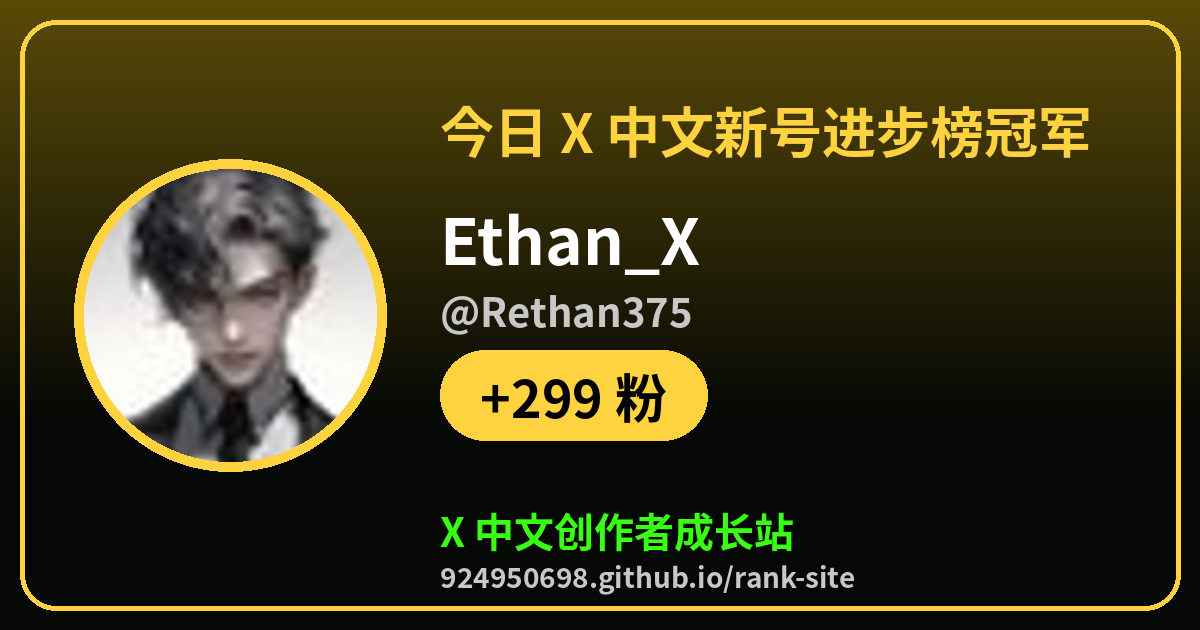
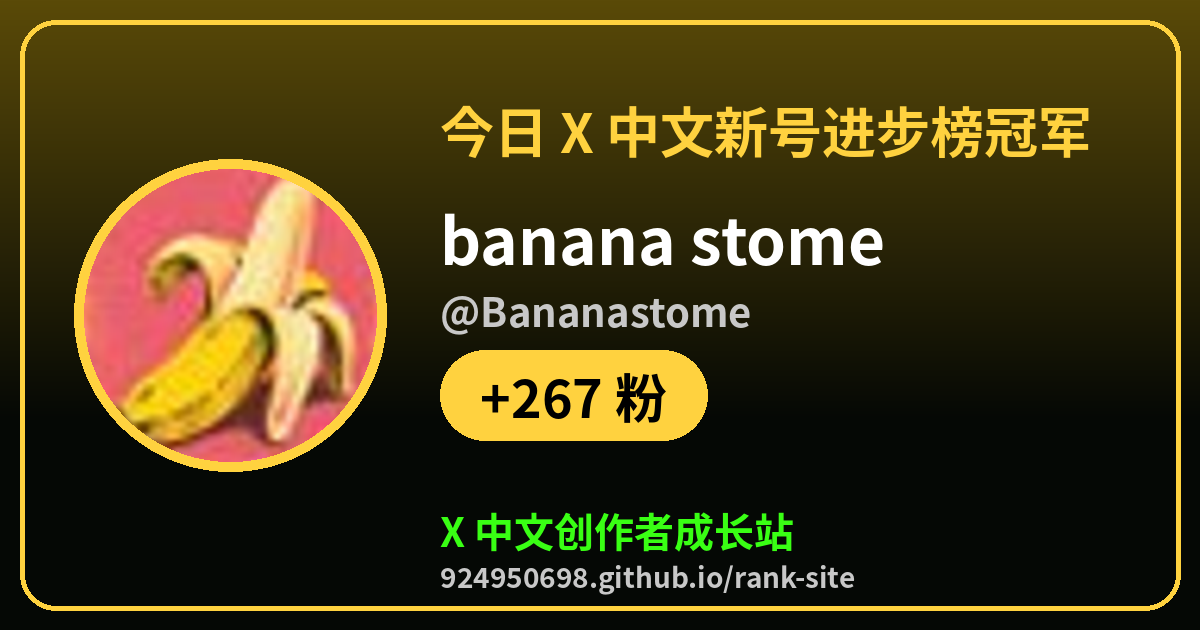
champ: 2026-10-17 14:24 CST

Changed region(s): [[0.0617, 0.2714, 0.3392, 0.754], [0.37, 0.3317, 0.74, 0.5429], [0.4317, 0.6032, 0.5242, 0.6635]]

diff --git a/champ/rising.html b/champ/rising.html
@@ -1,7 +1,7 @@
 <!doctype html><html lang="zh-CN"><head><meta charset="utf-8"><meta name="viewport" content="width=device-width,initial-scale=1">
-<title>今日 X 中文新号进步榜冠军：Ethan_X（@Rethan375）</title><meta name="description" content="+299 粉，来看看今天谁在爆，你排第几">
-<meta property="og:type" content="website"><meta property="og:url" content="https://924950698.github.io/rank-site/champ/rising.html"><meta property="og:title" content="今日 X 中文新号进步榜冠军：Ethan_X（@Rethan375）"><meta property="og:description" content="+299 粉，来看看今天谁在爆，你排第几">
-<meta property="og:image" content="https://924950698.github.io/rank-site/champ/rising.png?v=20261017T0502"><meta name="twitter:card" content="summary_large_image"><meta name="twitter:site" content="@tigerr3aue">
-<meta name="twitter:title" content="今日 X 中文新号进步榜冠军：Ethan_X（@Rethan375）"><meta name="twitter:description" content="+299 粉，来看看今天谁在爆，你排第几"><meta name="twitter:image" content="https://924950698.github.io/rank-site/champ/rising.png?v=20261017T0502">
-<meta http-equiv="refresh" content="0;url=https://924950698.github.io/rank-site/?champ=Rethan375&amp;board=rising#rank"><script>location.replace("https://924950698.github.io/rank-site/?champ=Rethan375&board=rising#rank")</script></head>
-<body style="background:#000;color:#fff;font-family:sans-serif;text-align:center;padding:40px"><a href="https://924950698.github.io/rank-site/?champ=Rethan375&amp;board=rising#rank" style="color:#39ff14">去 X 中文创作者成长站看冠军卡片</a></body></html>
+<title>今日 X 中文新号进步榜冠军：banana stome（@Bananastome）</title><meta name="description" content="+267 粉，来看看今天谁在爆，你排第几">
+<meta property="og:type" content="website"><meta property="og:url" content="https://924950698.github.io/rank-site/champ/rising.html"><meta property="og:title" content="今日 X 中文新号进步榜冠军：banana stome（@Bananastome）"><meta property="og:description" content="+267 粉，来看看今天谁在爆，你排第几">
+<meta property="og:image" content="https://924950698.github.io/rank-site/champ/rising.png?v=20261017T0610"><meta name="twitter:card" content="summary_large_image"><meta name="twitter:site" content="@tigerr3aue">
+<meta name="twitter:title" content="今日 X 中文新号进步榜冠军：banana stome（@Bananastome）"><meta name="twitter:description" content="+267 粉，来看看今天谁在爆，你排第几"><meta name="twitter:image" content="https://924950698.github.io/rank-site/champ/rising.png?v=20261017T0610">
+<meta http-equiv="refresh" content="0;url=https://924950698.github.io/rank-site/?champ=Bananastome&amp;board=rising#rank"><script>location.replace("https://924950698.github.io/rank-site/?champ=Bananastome&board=rising#rank")</script></head>
+<body style="background:#000;color:#fff;font-family:sans-serif;text-align:center;padding:40px"><a href="https://924950698.github.io/rank-site/?champ=Bananastome&amp;board=rising#rank" style="color:#39ff14">去 X 中文创作者成长站看冠军卡片</a></body></html>

diff --git a/champ/comments.html b/champ/comments.html
@@ -1,7 +1,7 @@
 <!doctype html><html lang="zh-CN"><head><meta charset="utf-8"><meta name="viewport" content="width=device-width,initial-scale=1">
-<title>今日 X 中文评论榜冠军：Deribit華語（@DeribitCN）</title><meta name="description" content="168 评论，来看看今天谁在爆，你排第几">
-<meta property="og:type" content="website"><meta property="og:url" content="https://924950698.github.io/rank-site/champ/comments.html"><meta property="og:title" content="今日 X 中文评论榜冠军：Deribit華語（@DeribitCN）"><meta property="og:description" content="168 评论，来看看今天谁在爆，你排第几">
-<meta property="og:image" content="https://924950698.github.io/rank-site/champ/comments.png?v=20261017T0502"><meta name="twitter:card" content="summary_large_image"><meta name="twitter:site" content="@tigerr3aue">
-<meta name="twitter:title" content="今日 X 中文评论榜冠军：Deribit華語（@DeribitCN）"><meta name="twitter:description" content="168 评论，来看看今天谁在爆，你排第几"><meta name="twitter:image" content="https://924950698.github.io/rank-site/champ/comments.png?v=20261017T0502">
-<meta http-equiv="refresh" content="0;url=https://924950698.github.io/rank-site/?champ=DeribitCN&amp;board=comments#rank"><script>location.replace("https://924950698.github.io/rank-site/?champ=DeribitCN&board=comments#rank")</script></head>
-<body style="background:#000;color:#fff;font-family:sans-serif;text-align:center;padding:40px"><a href="https://924950698.github.io/rank-site/?champ=DeribitCN&amp;board=comments#rank" style="color:#39ff14">去 X 中文创作者成长站看冠军卡片</a></body></html>
+<title>今日 X 中文评论榜冠军：水Lane💧（@VentLane）</title><meta name="description" content="168 评论，来看看今天谁在爆，你排第几">
+<meta property="og:type" content="website"><meta property="og:url" content="https://924950698.github.io/rank-site/champ/comments.html"><meta property="og:title" content="今日 X 中文评论榜冠军：水Lane💧（@VentLane）"><meta property="og:description" content="168 评论，来看看今天谁在爆，你排第几">
+<meta property="og:image" content="https://924950698.github.io/rank-site/champ/comments.png?v=20261017T0610"><meta name="twitter:card" content="summary_large_image"><meta name="twitter:site" content="@tigerr3aue">
+<meta name="twitter:title" content="今日 X 中文评论榜冠军：水Lane💧（@VentLane）"><meta name="twitter:description" content="168 评论，来看看今天谁在爆，你排第几"><meta name="twitter:image" content="https://924950698.github.io/rank-site/champ/comments.png?v=20261017T0610">
+<meta http-equiv="refresh" content="0;url=https://924950698.github.io/rank-site/?champ=VentLane&amp;board=comments#rank"><script>location.replace("https://924950698.github.io/rank-site/?champ=VentLane&board=comments#rank")</script></head>
+<body style="background:#000;color:#fff;font-family:sans-serif;text-align:center;padding:40px"><a href="https://924950698.github.io/rank-site/?champ=VentLane&amp;board=comments#rank" style="color:#39ff14">去 X 中文创作者成长站看冠军卡片</a></body></html>

diff --git a/champ/exposure.html b/champ/exposure.html
@@ -1,7 +1,7 @@
 <!doctype html><html lang="zh-CN"><head><meta charset="utf-8"><meta name="viewport" content="width=device-width,initial-scale=1">
 <title>今日 X 中文曝光榜冠军：可乐33（@cokeoysters）</title><meta name="description" content="4.7万 曝光，来看看今天谁在爆，你排第几">
 <meta property="og:type" content="website"><meta property="og:url" content="https://924950698.github.io/rank-site/champ/exposure.html"><meta property="og:title" content="今日 X 中文曝光榜冠军：可乐33（@cokeoysters）"><meta property="og:description" content="4.7万 曝光，来看看今天谁在爆，你排第几">
-<meta property="og:image" content="https://924950698.github.io/rank-site/champ/exposure.png?v=20261017T0502"><meta name="twitter:card" content="summary_large_image"><meta name="twitter:site" content="@tigerr3aue">
-<meta name="twitter:title" content="今日 X 中文曝光榜冠军：可乐33（@cokeoysters）"><meta name="twitter:description" content="4.7万 曝光，来看看今天谁在爆，你排第几"><meta name="twitter:image" content="https://924950698.github.io/rank-site/champ/exposure.png?v=20261017T0502">
+<meta property="og:image" content="https://924950698.github.io/rank-site/champ/exposure.png?v=20261017T0610"><meta name="twitter:card" content="summary_large_image"><meta name="twitter:site" content="@tigerr3aue">
+<meta name="twitter:title" content="今日 X 中文曝光榜冠军：可乐33（@cokeoysters）"><meta name="twitter:description" content="4.7万 曝光，来看看今天谁在爆，你排第几"><meta name="twitter:image" content="https://924950698.github.io/rank-site/champ/exposure.png?v=20261017T0610">
 <meta http-equiv="refresh" content="0;url=https://924950698.github.io/rank-site/?champ=cokeoysters&amp;board=exposure#rank"><script>location.replace("https://924950698.github.io/rank-site/?champ=cokeoysters&board=exposure#rank")</script></head>
 <body style="background:#000;color:#fff;font-family:sans-serif;text-align:center;padding:40px"><a href="https://924950698.github.io/rank-site/?champ=cokeoysters&amp;board=exposure#rank" style="color:#39ff14">去 X 中文创作者成长站看冠军卡片</a></body></html>

diff --git a/champ/growth.html b/champ/growth.html
@@ -1,7 +1,7 @@
 <!doctype html><html lang="zh-CN"><head><meta charset="utf-8"><meta name="viewport" content="width=device-width,initial-scale=1">
 <title>今日 X 中文涨粉榜冠军：内涵段子（@hacken2006）</title><meta name="description" content="+591 粉，来看看今天谁在爆，你排第几">
 <meta property="og:type" content="website"><meta property="og:url" content="https://924950698.github.io/rank-site/champ/growth.html"><meta property="og:title" content="今日 X 中文涨粉榜冠军：内涵段子（@hacken2006）"><meta property="og:description" content="+591 粉，来看看今天谁在爆，你排第几">
-<meta property="og:image" content="https://924950698.github.io/rank-site/champ/growth.png?v=20261017T0502"><meta name="twitter:card" content="summary_large_image"><meta name="twitter:site" content="@tigerr3aue">
-<meta name="twitter:title" content="今日 X 中文涨粉榜冠军：内涵段子（@hacken2006）"><meta name="twitter:description" content="+591 粉，来看看今天谁在爆，你排第几"><meta name="twitter:image" content="https://924950698.github.io/rank-site/champ/growth.png?v=20261017T0502">
+<meta property="og:image" content="https://924950698.github.io/rank-site/champ/growth.png?v=20261017T0610"><meta name="twitter:card" content="summary_large_image"><meta name="twitter:site" content="@tigerr3aue">
+<meta name="twitter:title" content="今日 X 中文涨粉榜冠军：内涵段子（@hacken2006）"><meta name="twitter:description" content="+591 粉，来看看今天谁在爆，你排第几"><meta name="twitter:image" content="https://924950698.github.io/rank-site/champ/growth.png?v=20261017T0610">
 <meta http-equiv="refresh" content="0;url=https://924950698.github.io/rank-site/?champ=hacken2006&amp;board=growth#rank"><script>location.replace("https://924950698.github.io/rank-site/?champ=hacken2006&board=growth#rank")</script></head>
 <body style="background:#000;color:#fff;font-family:sans-serif;text-align:center;padding:40px"><a href="https://924950698.github.io/rank-site/?champ=hacken2006&amp;board=growth#rank" style="color:#39ff14">去 X 中文创作者成长站看冠军卡片</a></body></html>
